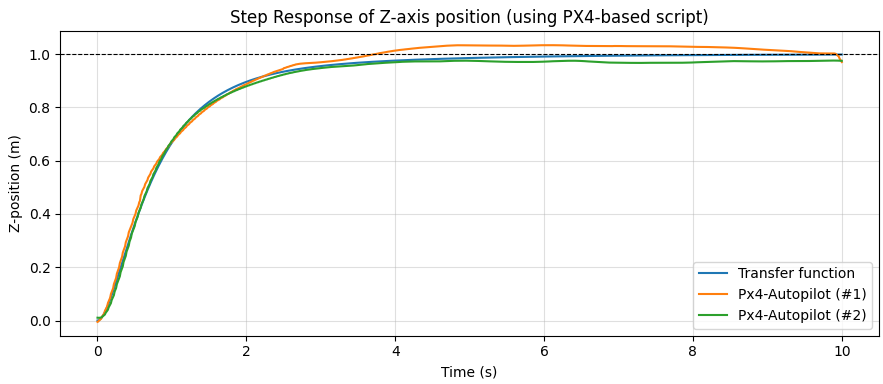
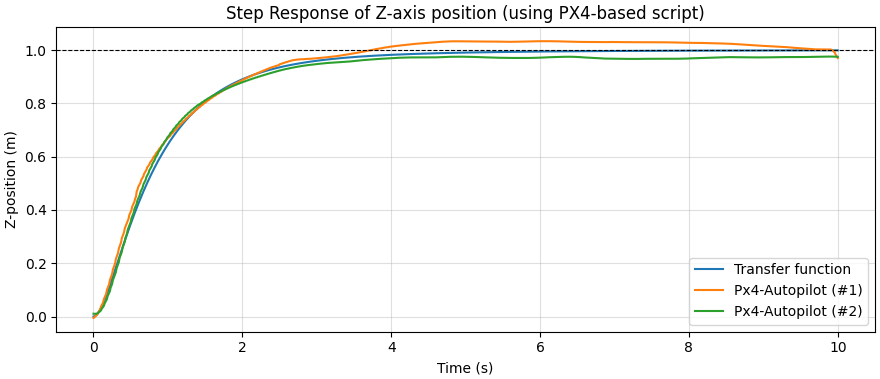
editing sitl_z step response

diff --git a/px4_sitl_scripts/px4_method_v3.py b/px4_sitl_scripts/px4_method_v3.py
@@ -146,7 +146,7 @@ def thrust_to_attitude(thr_sp: np.ndarray, yaw_sp: float):
 #             PositionControl::_velocityController()  (PID on velocity, XY part)
 # ══════════════════════════════════════════════════════════════════════════════
 
-class XYController:
+'''class XYController:
     """
     Cascaded P(pos) → PID(vel) → thrust vector [tx, ty] (NED, normalized).
 
@@ -246,6 +246,122 @@ class XYController:
         # max horizontal thrust given the Z thrust must stay above min
         # simplified: limit by tan(max_tilt)
         max_thr_h = np.tan(self.max_tilt)   # relative to unit vertical
+        thr_h_norm = np.linalg.norm(thr_xy)
+        if thr_h_norm > max_thr_h:
+            thr_xy = thr_xy / thr_h_norm * max_thr_h
+
+        return thr_xy'''
+
+class AxisController:
+    """
+    Cascaded P(pos) → PID(vel) → thrust (single axis, NED, normalised).
+
+    Gains mirror PX4 defaults:
+        MPC_XY_P          = 0.95
+        MPC_XY_VEL_P_ACC  = 1.8
+        MPC_XY_VEL_I_ACC  = 0.4
+        MPC_XY_VEL_D_ACC  = 0.2
+        MPC_THR_HOVER     = 0.73
+    """
+
+    def __init__(
+        self,
+        Kp_pos: float = 0.95,
+        Kp_vel: float = 1.8,
+        Ki_vel: float = 0.4,
+        Kd_vel: float = 0.2,
+        hover_thrust: float = 0.73,
+        max_vel: float = 5.0,
+        max_thr: float = 0.9,
+        tau_d: float = 0.1,
+    ):
+        self.Kp_pos      = Kp_pos
+        self.Kp_vel      = Kp_vel
+        self.Ki_vel      = Ki_vel
+        self.Kd_vel      = Kd_vel
+        self.hover_thrust = hover_thrust
+        self.max_vel     = max_vel
+        self.max_thr     = max_thr
+        self.tau_d       = tau_d
+
+        self._vel_int  = 0.0
+        self._vel_filt = 0.0
+
+    def reset(self):
+        self._vel_int  = 0.0
+        self._vel_filt = 0.0
+
+    def update(
+        self,
+        pos_sp: float,
+        pos:    float,
+        vel:    float,
+        dt:     float,
+    ) -> float:
+        if dt <= 0.0:
+            return 0.0
+
+        # ── 1. Position loop (P) → velocity setpoint ──────────────────
+        vel_sp = float(np.clip(
+            self.Kp_pos * (pos_sp - pos),
+            -self.max_vel, self.max_vel,
+        ))
+
+        # ── 2. Velocity loop (PID) → acceleration setpoint ────────────
+        vel_err = vel_sp - vel
+
+        alpha = self.tau_d / (self.tau_d + dt)
+        self._vel_filt = alpha * self._vel_filt + (1.0 - alpha) * vel
+
+        acc_sp = (
+            self.Kp_vel * vel_err
+            + self.Ki_vel * self._vel_int
+            - self.Kd_vel * self._vel_filt   # D on measurement (PX4 style)
+        )
+
+        # ── 3. Anti-windup ─────────────────────────────────────────────
+        thr_raw = acc_sp / 9.81 * self.hover_thrust
+        at_limit = abs(thr_raw) >= self.max_thr
+        winding_up = (thr_raw >= self.max_thr and vel_err >= 0.0) or \
+                     (thr_raw <= -self.max_thr and vel_err <= 0.0)
+
+        if not (at_limit and winding_up):
+            self._vel_int += vel_err * dt
+
+        # ── 4. acc → normalised thrust ─────────────────────────────────
+        thr = acc_sp / 9.81 * self.hover_thrust
+
+        return float(np.clip(thr, -self.max_thr, self.max_thr))
+
+
+class XYController:
+    """
+    Composes two independent AxisControllers for the x- and y-axes.
+    Tilt limiting is applied to the combined horizontal thrust vector.
+    """
+
+    def __init__(self, max_tilt: float = np.radians(35.0), **axis_kwargs):
+        self.max_tilt = max_tilt
+        self.x = AxisController(**axis_kwargs)
+        self.y = AxisController(**axis_kwargs)
+
+    def reset(self):
+        self.x.reset()
+        self.y.reset()
+
+    def update(
+        self,
+        pos_sp: np.ndarray,   # [x_ref, y_ref]  NED [m]
+        pos:    np.ndarray,   # [x,     y    ]  NED [m]
+        vel:    np.ndarray,   # [vx,    vy   ]  NED [m/s]
+        dt:     float,
+    ) -> np.ndarray:
+        thr_x = self.x.update(pos_sp[0], pos[0], vel[0], dt)
+        thr_y = self.y.update(pos_sp[1], pos[1], vel[1], dt)
+        thr_xy = np.array([thr_x, thr_y])
+
+        # ── Tilt limiting: project onto max tilt cone ──────────────────
+        max_thr_h = np.tan(self.max_tilt)
         thr_h_norm = np.linalg.norm(thr_xy)
         if thr_h_norm > max_thr_h:
             thr_xy = thr_xy / thr_h_norm * max_thr_h
@@ -375,7 +491,8 @@ class PositionControllerNode(Node):
         self.dt      = 1.0 / self.RATE_HZ
 
         # ── Controllers ────────────────────────────────────────────────
-        self.xy_ctrl = XYController(hover_thrust=0.73)
+        self.x_ctrl = AxisController(hover_thrust=0.73)
+        self.y_ctrl = AxisController(hover_thrust=0.73)
         self.z_ctrl  = ZController (hover_thrust=0.73)
 
         # ── Odometry state ─────────────────────────────────────────────
@@ -438,15 +555,21 @@ class PositionControllerNode(Node):
     def _publish_attitude_setpoint(self):
         #self.pos_sp = np.array([float(self.counter/self.RATE_HZ), 0.0, -2.5])
         if self.counter % 2000 < 1000:
-            self.pos_sp = np.array([0.0, 0.0, -4.0])
+            self.pos_sp = np.array([0.0, 0.0, -2.5])
         else:
-            self.pos_sp = np.array([0.0, 0.0, -3.0])
+            self.pos_sp = np.array([1.0, 0.0, -2.5])
 
         # ── XY: position + velocity → horizontal thrust vector ─────────
-        thr_xy = self.xy_ctrl.update(
-            pos_sp = self.pos_sp[:2],
-            pos    = self.pos[:2],
-            vel    = self.vel[:2],
+        thr_x = self.x_ctrl.update(
+            pos_sp = self.pos_sp[0],
+            pos    = self.pos[0],
+            vel    = self.vel[0],
+            dt     = self.dt,
+        )
+        thr_y = self.y_ctrl.update(
+            pos_sp = self.pos_sp[1],
+            pos    = self.pos[1],
+            vel    = self.vel[1],
             dt     = self.dt,
         )
 
@@ -463,7 +586,7 @@ class PositionControllerNode(Node):
         # horizontal is added. Total thrust vector in NED world frame:
         #   thr_sp = [tx, ty, thr_z]
         # Note: thr_z is already negative (upward).
-        thr_sp = np.array([thr_xy[0], thr_xy[1], thr_z])
+        thr_sp = np.array([thr_x, thr_y, thr_z])
 
         # ── Convert thrust vector → attitude quaternion + scalar thrust ─
         # This is the exact Python translation of:

diff --git a/px4_sitl_scripts/regulation_px4_z.py b/px4_sitl_scripts/regulation_px4_z.py
@@ -30,7 +30,7 @@ Kp_vel  = 4.0;   Ki_vel  = 2.0;   Kd_vel  = 0.0
 
 #P_angacc  = control.tf([1],    [1, 0])      # τ → θ_dot     (1/Js)
 #P_att     = control.tf([1],    [1, 0])      # θ_dot → θ     (1/s)
-P_vel     = control.tf([m],    [1, -0.5])      # θ → ẋ         (g/s)
+P_vel     = control.tf([m],    [1, 0])      # θ → ẋ         (g/s)
 P_pos     = control.tf([1],    [1, 0])      # ẋ → x         (1/s)
 
 # ══════════════════════════════════════════════════════════════════════════
